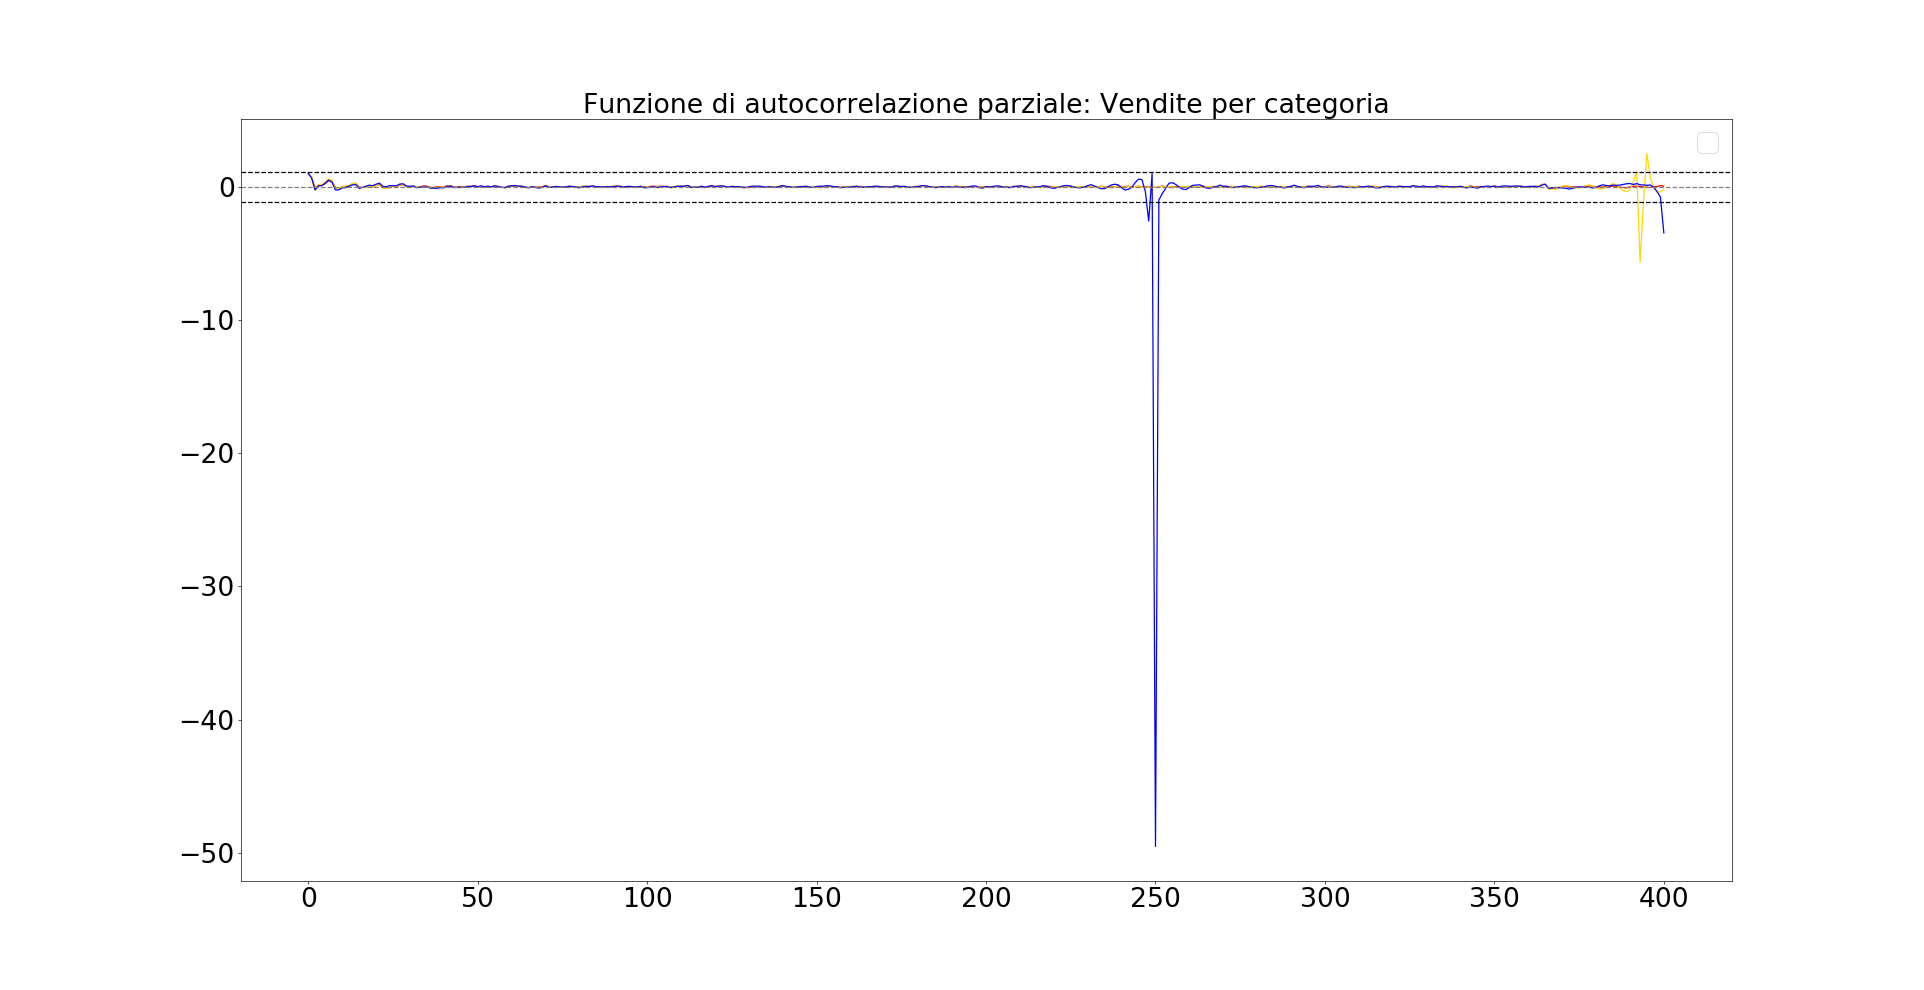
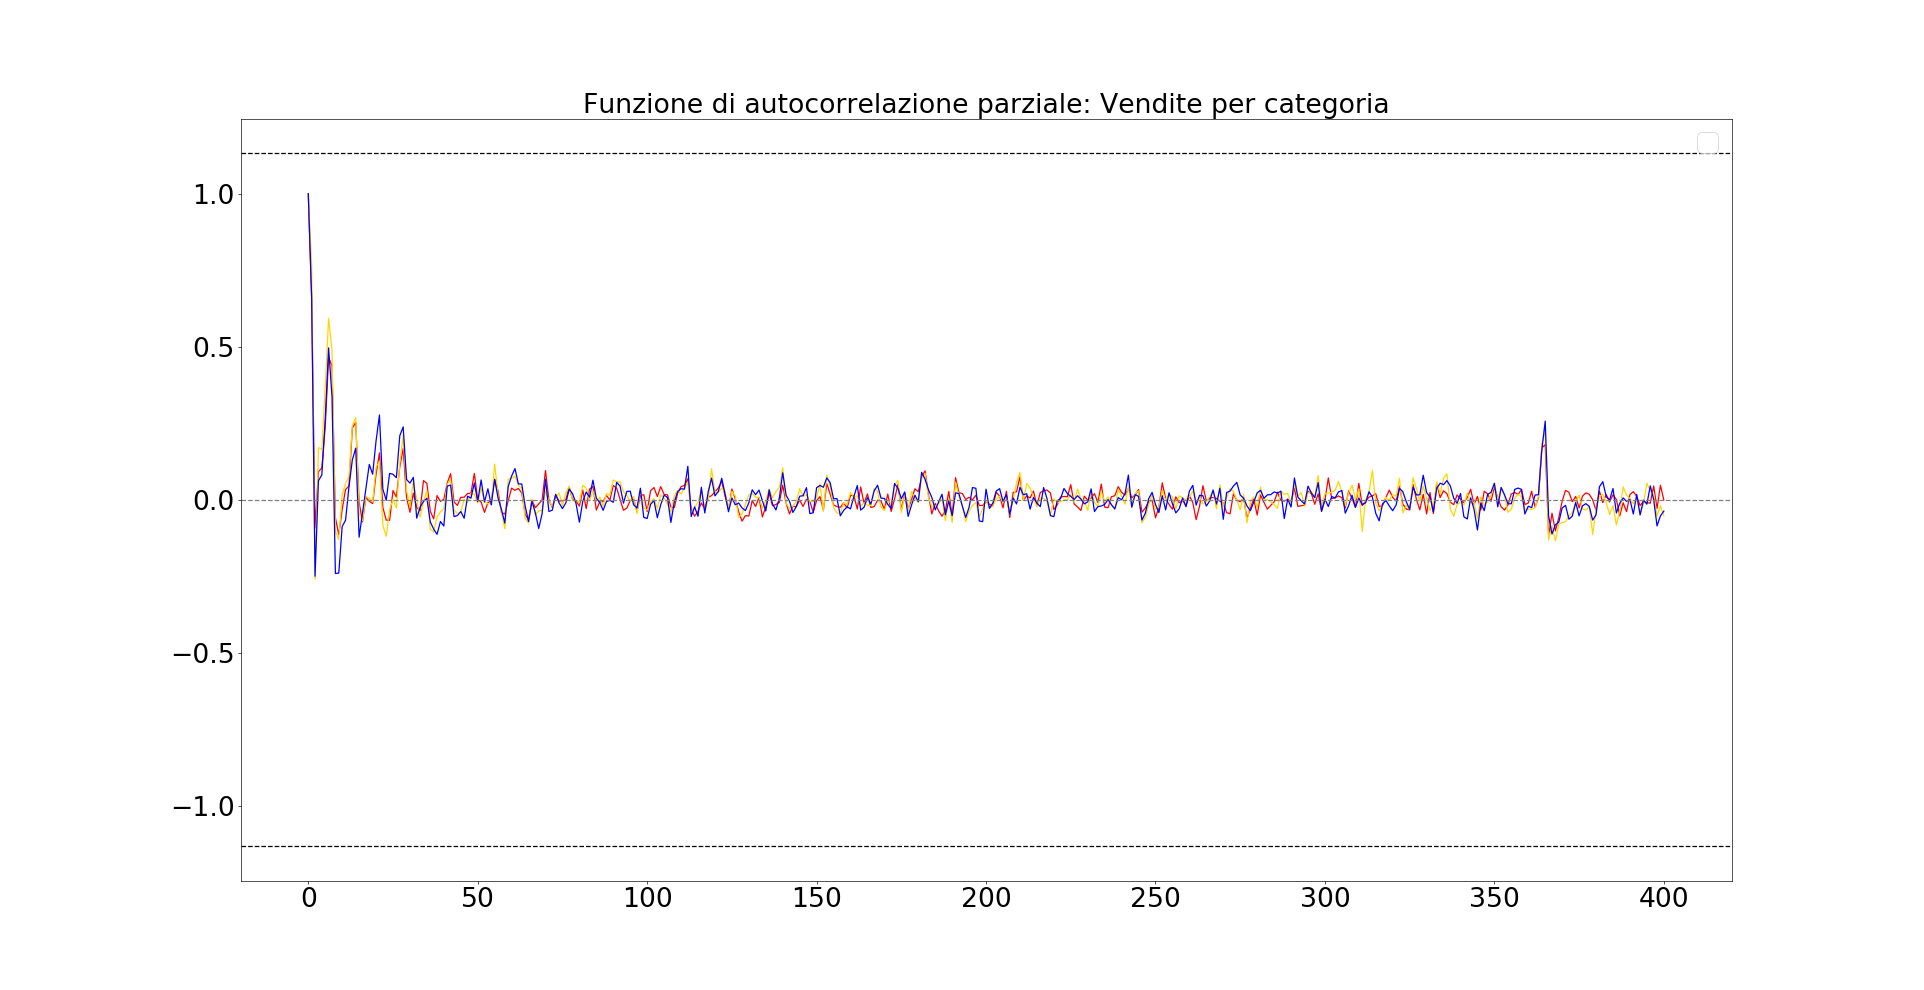
update immagini

diff --git a/M5_COMPETITION/m5_competition.py b/M5_COMPETITION/m5_competition.py
@@ -193,7 +193,7 @@ def pautocorrelation(ts = [], lags = 20, titleSpec = '', logbool = False):
     """
     pautocor = []
     for timeserie in ts:
-        pautocor.append(pacf(timeserie, nlags=lags))
+        pautocor.append(pacf(timeserie, nlags=lags, method = 'ols'))
     i = 0
     plt.figure(figsize=(80, 40), dpi=60)
     if logbool:
@@ -493,7 +493,7 @@ if __name__ == '__main__':
     autocorrelation(tsVenditeNegozio, titleSpec = "Vendite per negozio", lags = 40)
     autocorrelation(tsVenditeNegozio, titleSpec = "Vendite per negozio", lags = 400)
     pautocorrelation(tsVenditeNegozio, titleSpec = "Vendite per negozio", lags = 40)
-    pautocorrelation(tsVenditeNegozio, titleSpec = "Vendite per negozio", lags = 400, logbool = True)
+    pautocorrelation(tsVenditeNegozio, titleSpec = "Vendite per negozio", lags = 400)
 
     # %%
     # Serie temporali per stato
